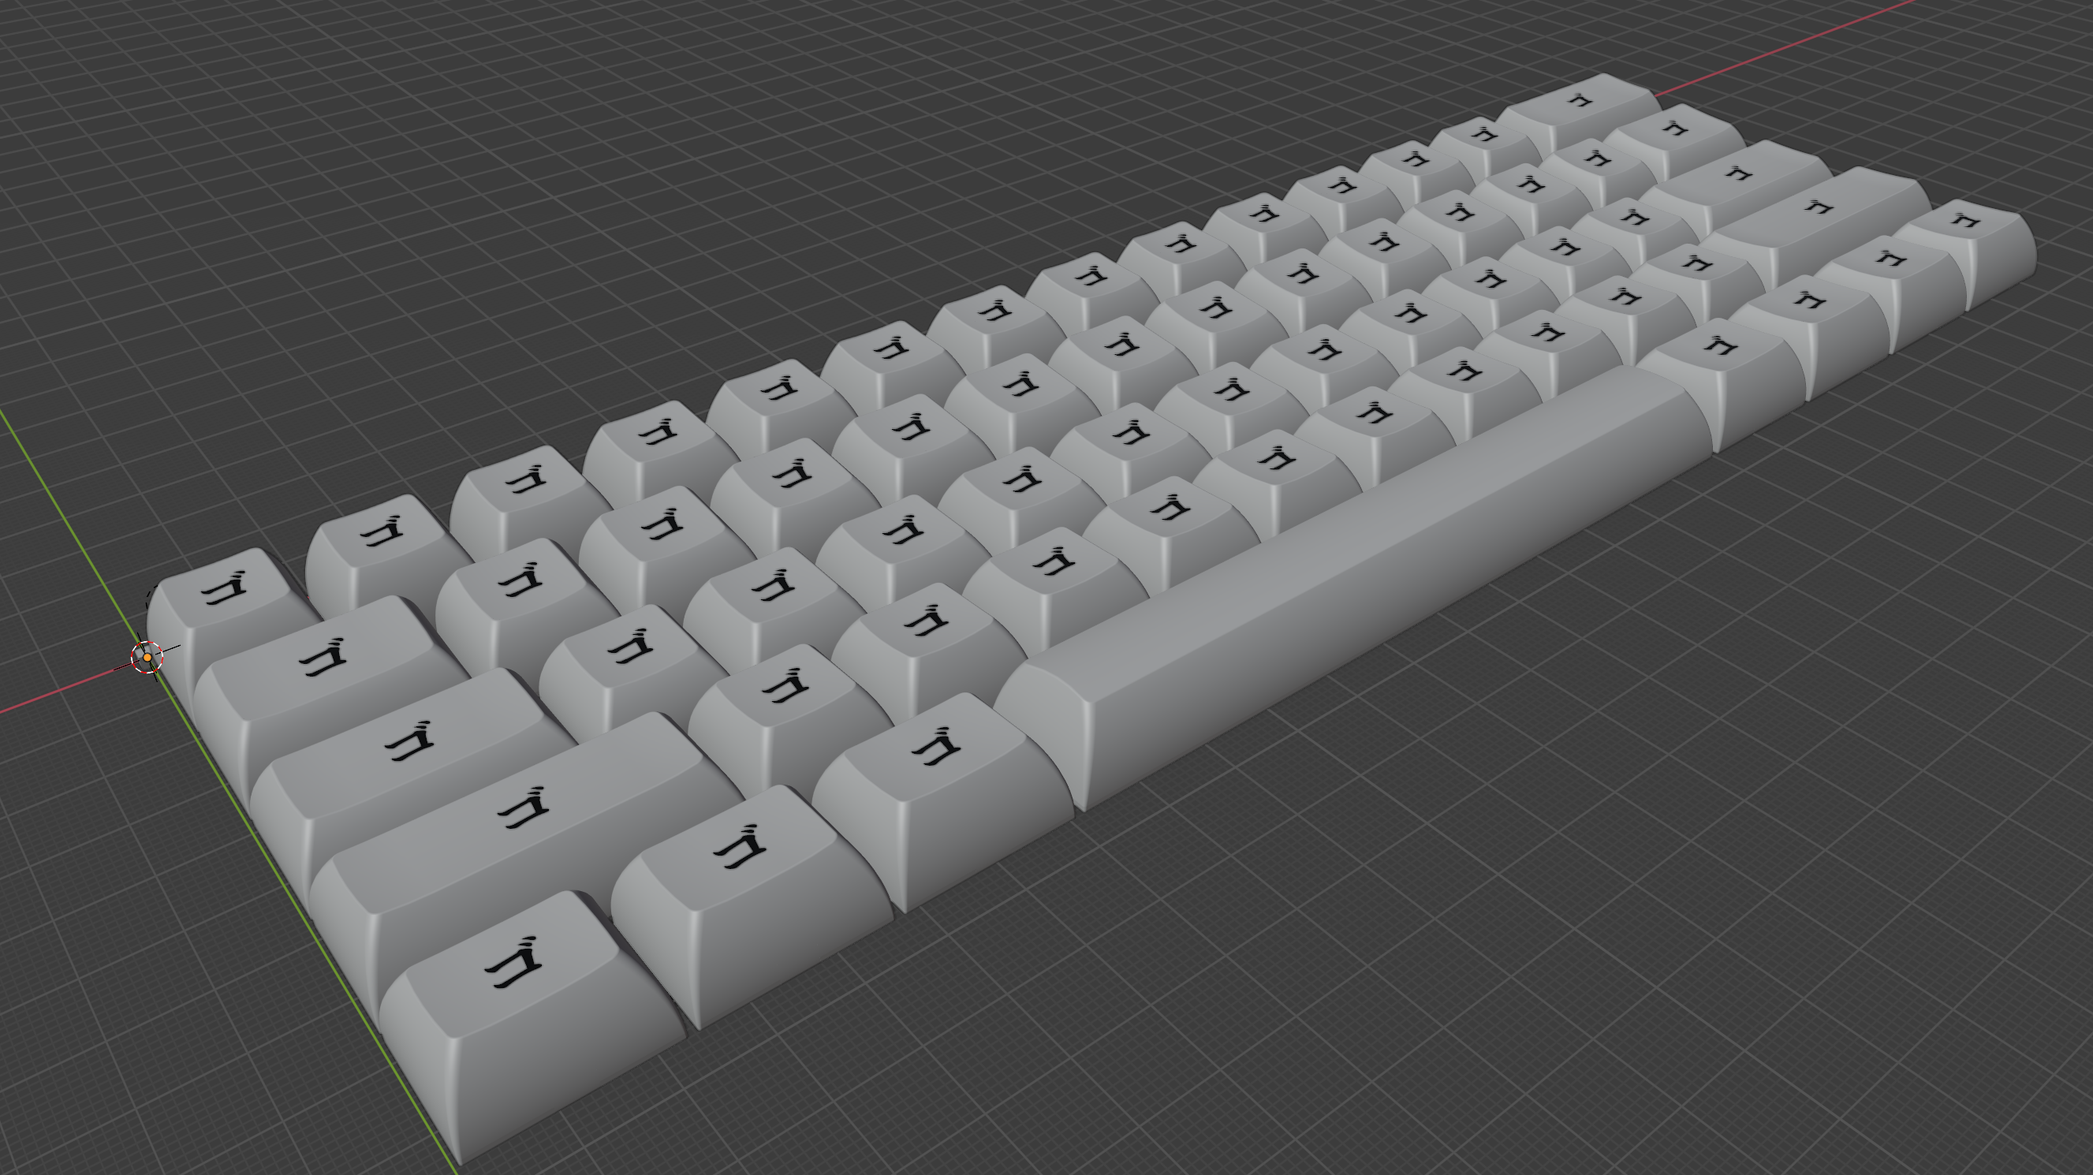
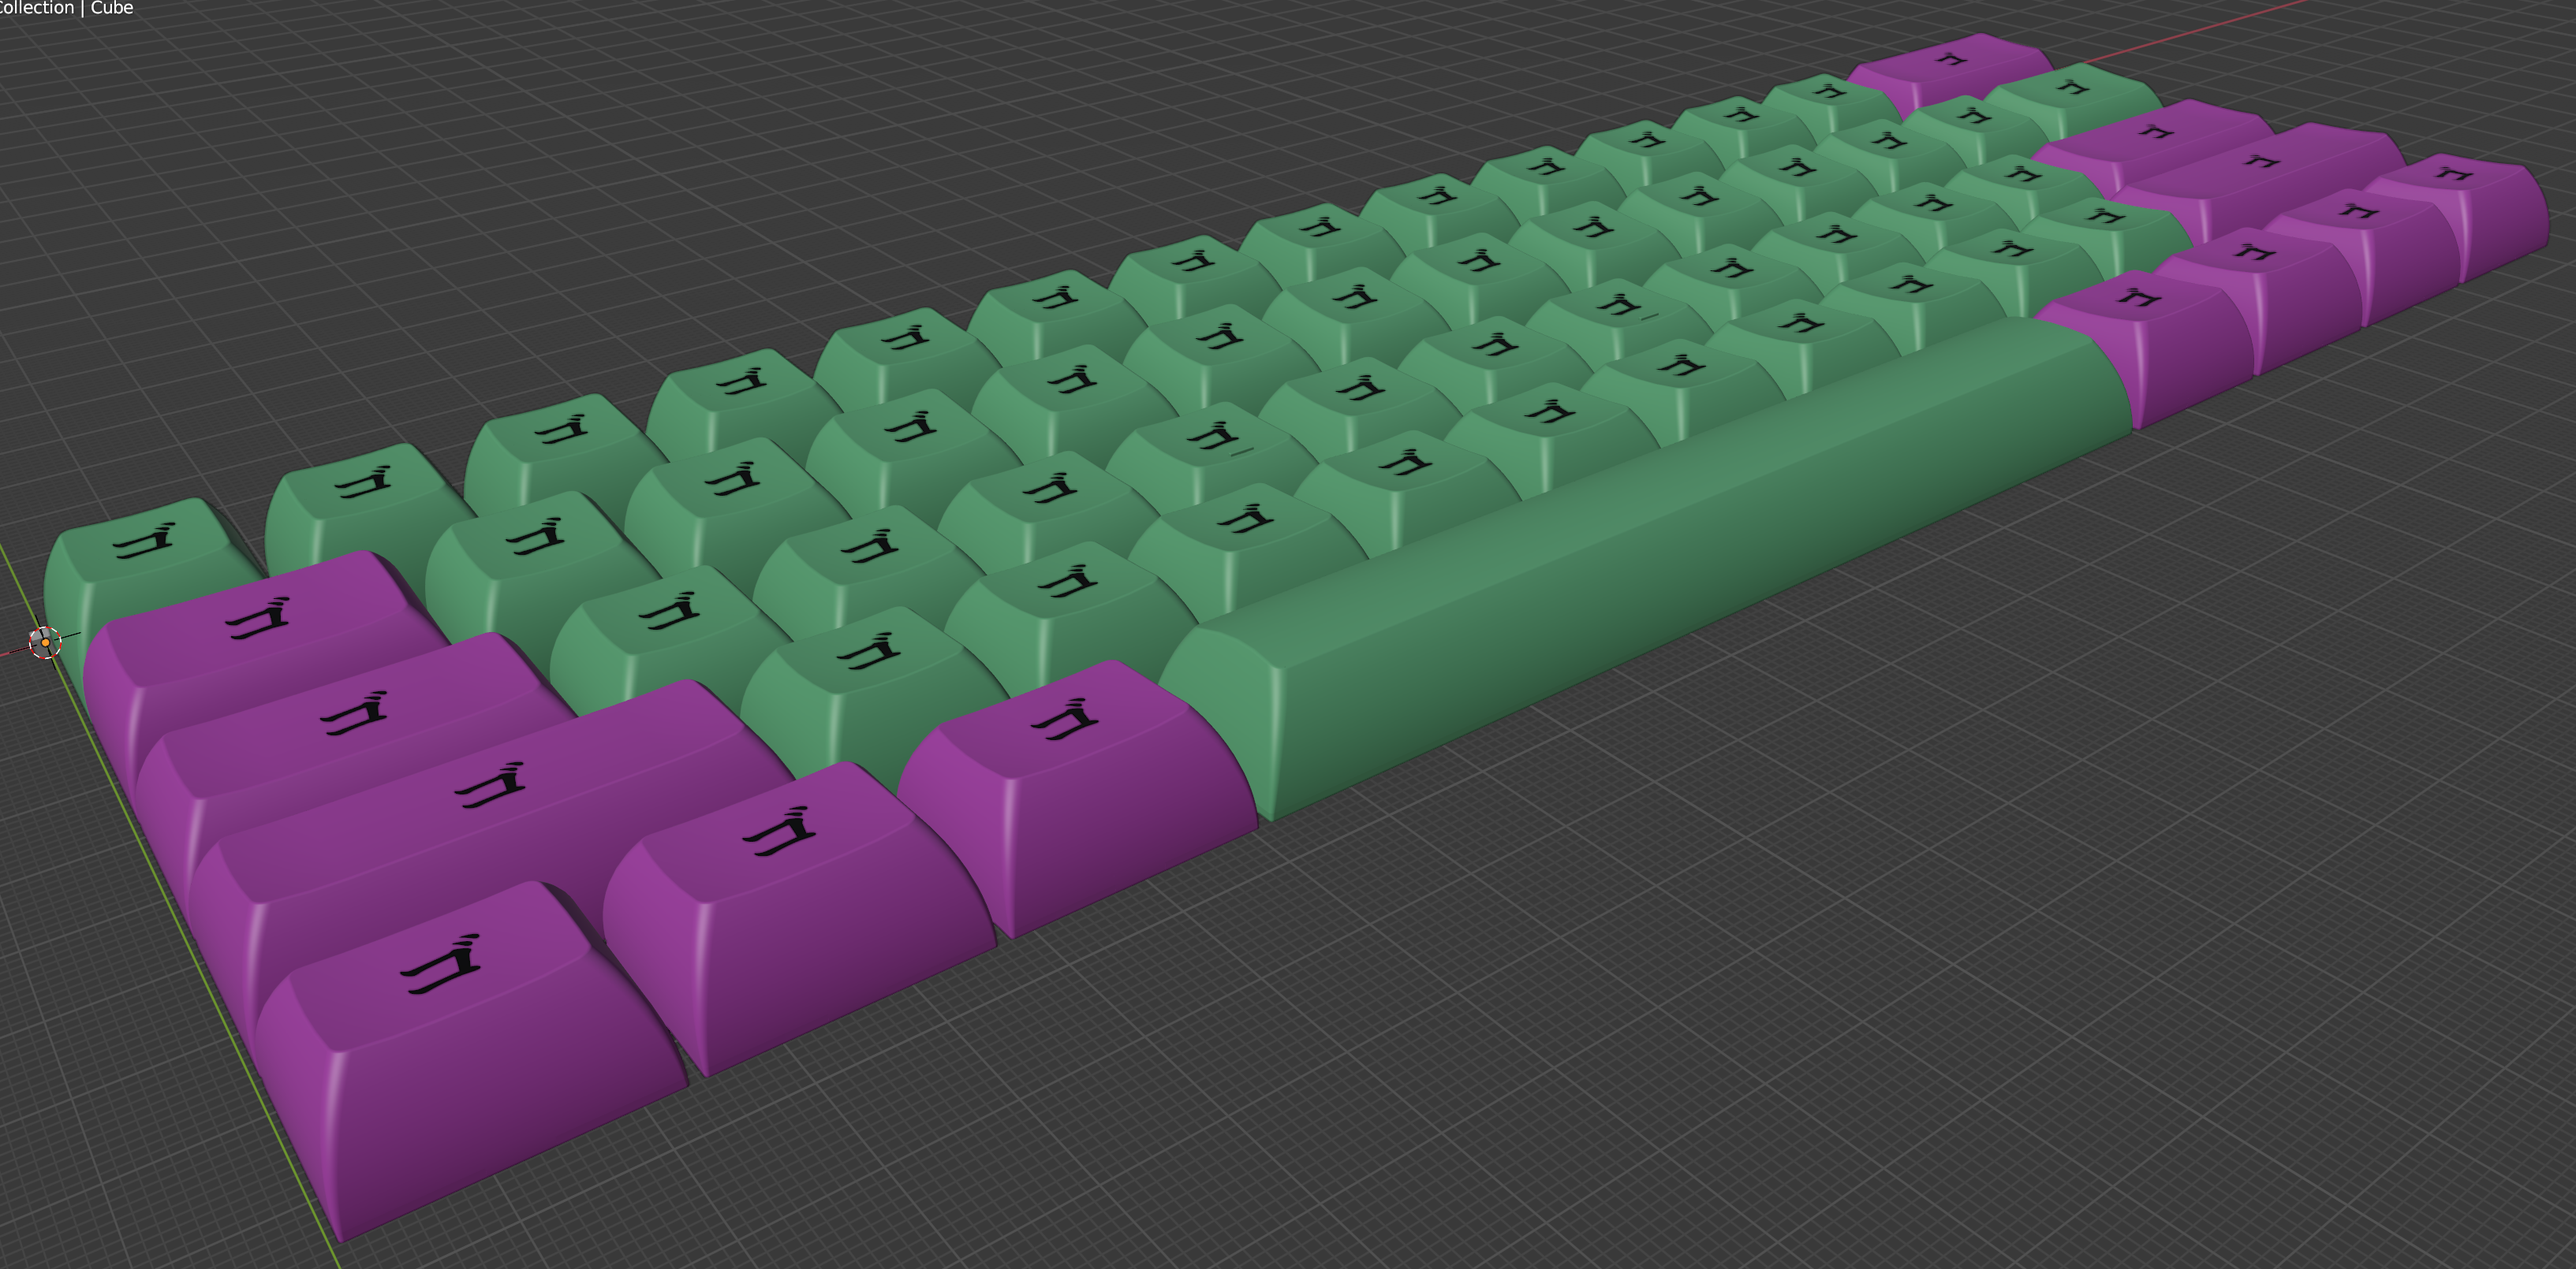
Updated README on colourway support and added an API note

diff --git a/README.md b/README.md
@@ -6,10 +6,12 @@
 This is a [python][python] script which generates layouts of keycaps and glyphs for (automatic) import into [Blender!][blender]
 Gone will be the days of manually placing caps into the correct locations and spending hours fixing alignment problems of glyphs on individual keys—simply specify the layout you want using the JSON output of [KLE][kle] to have the computer guide the caps into the mathematically-correct locations.
 
-This script can be used to create a _single source of truth_ for glyph alignment on caps, so later changes and fixes can be more easily propagated.
+This script can be used to create a _single source of truth_ for glyph alignment on caps and—as an added bonus—colourway-config, so later changes and fixes can be more easily propagated.
 
 Please note that for many of the steps below, default configuration files are provided (obtained through the zip on the [releases page][releases]).
 Also, command-line options can be saved and automatically read from the file `opts.yml` for later use.
+
+The [python][python] API of `adjustkeys` also allows a coder to be notified of the objects it creates, thereby enabling it to form part of a larger keyboard-render build-system, should the user be that-way inclined.
 
 ## Why Bother?
 
